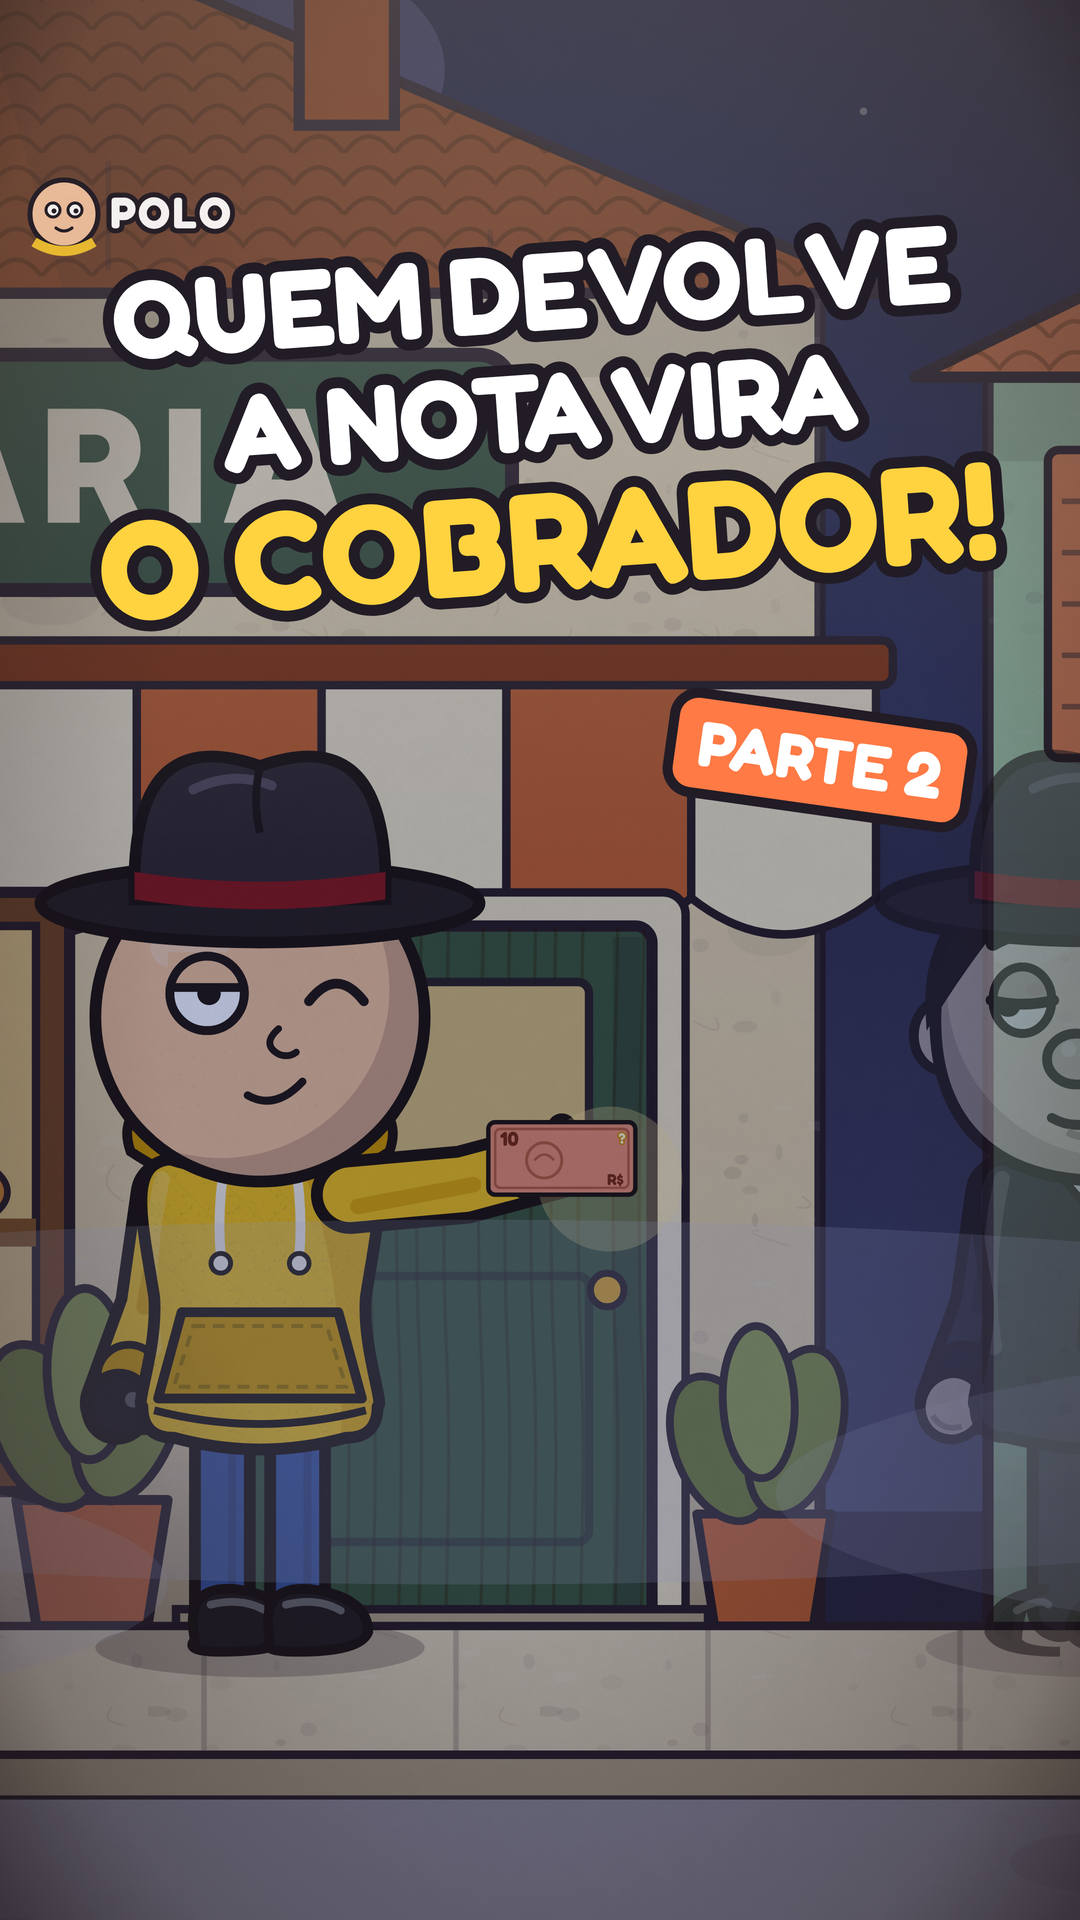
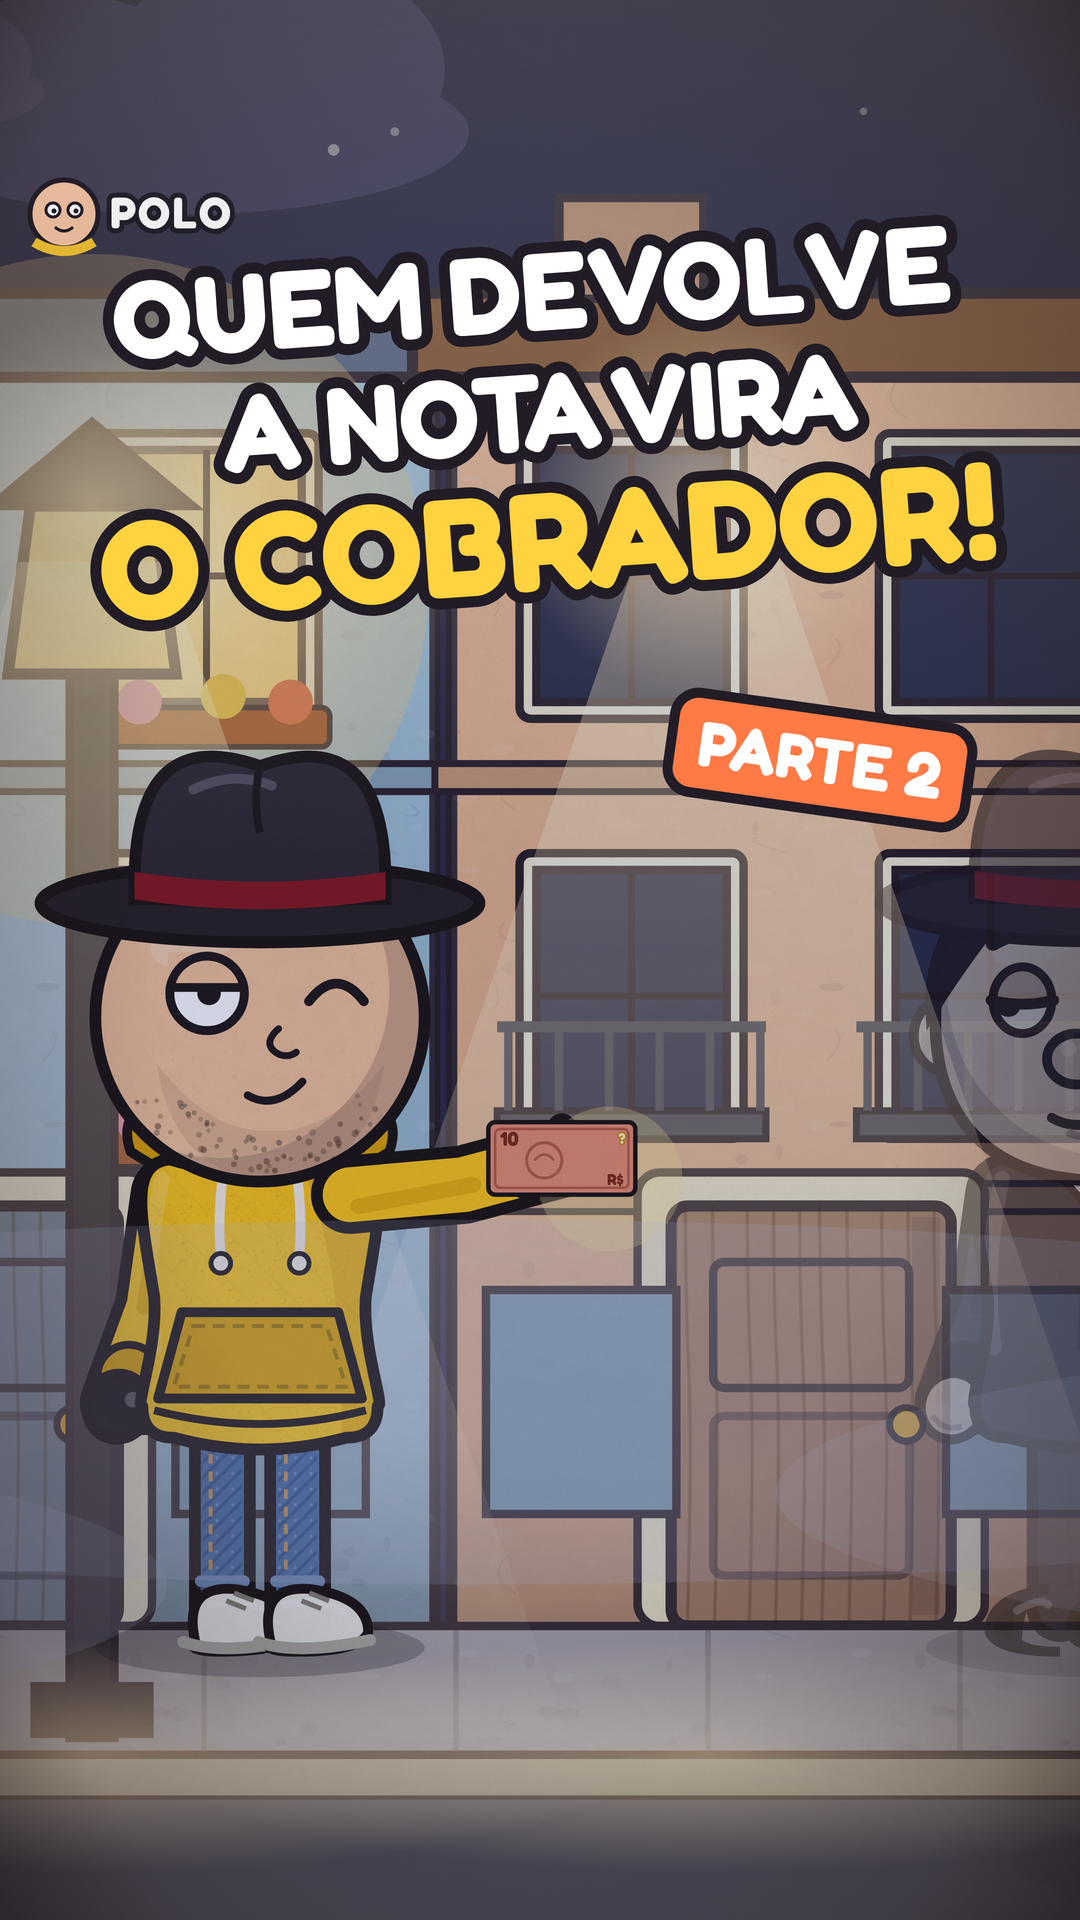
Ep2 cover with new Polo and city
Claude-Session: https://claude.ai/code/session_01HYk7gqrGxfTzigKjgtFxjV

diff --git a/ep2/web/cover.html b/ep2/web/cover.html
@@ -7,10 +7,10 @@ window.renderCover = () => {
   const T = 3, t = 1;
   const cam = frameG(700, 905, 1.75, 1640);
   const polo = person('polo', { x: 600, y: 905, s: 0.68, t: 0.4, face: 0.25, expr: 'smug', wink: true, hat: 'fedora', armR: 95, bendR: 10, holdR: noteNamed('?', 1, { s: 0.5 }) });
-  const man = person('terno', { x: 900, y: 905, s: 0.62, t: 0.4, face: -0.4, lx: -1, expr: 'smug', fade: 0.55 });
-  const layers = [...backNight(t), Lr(1, streetARow(T, { pigeons: false }) + nightLamps() + man + polo), Lr(1.2, fog(T))];
+  const man = person('terno', { x: 900, y: 905, s: 0.62, t: 0.4, face: -0.4, lx: -1, expr: 'smug', fade: 0.6 });
+  const layers = nightSet(T, t, man + lampLight(760, 940, 1.0) + polo);
   let body = ''; for (const L of layers) body += `<g transform="${layerT(cam, L.d)}">${L.svg}</g>`;
-  body += `<rect width="1080" height="1920" fill="#3a4a8a" opacity="0.38" style="mix-blend-mode:multiply"/>`;
+  body += `<rect width="1080" height="1920" fill="#3a4a8a" opacity="0.22" style="mix-blend-mode:multiply"/>`;
   const title = (txt, y, size, fill) => `<text x="540" y="${y}" text-anchor="middle" font-family="Fredoka" font-weight="700" font-size="${size}" fill="${fill}" stroke="#211c26" stroke-width="22" stroke-linejoin="round" paint-order="stroke">${txt}</text>`;
   const head = `<g transform="rotate(-4 540 420)">${title('QUEM DEVOLVE', 330, 110, '#ffffff')}${title('A NOTA VIRA', 450, 110, '#ffffff')}${title('O COBRADOR!', 590, 140, '#ffd23f')}</g>`;
   const part = `<g transform="translate(820 760) rotate(8)"><rect x="-150" y="-50" width="300" height="100" rx="24" fill="#ff7a45" stroke="#211c26" stroke-width="10"/><text x="0" y="22" text-anchor="middle" font-family="Fredoka" font-weight="700" font-size="64" fill="#fff">PARTE 2</text></g>`;
